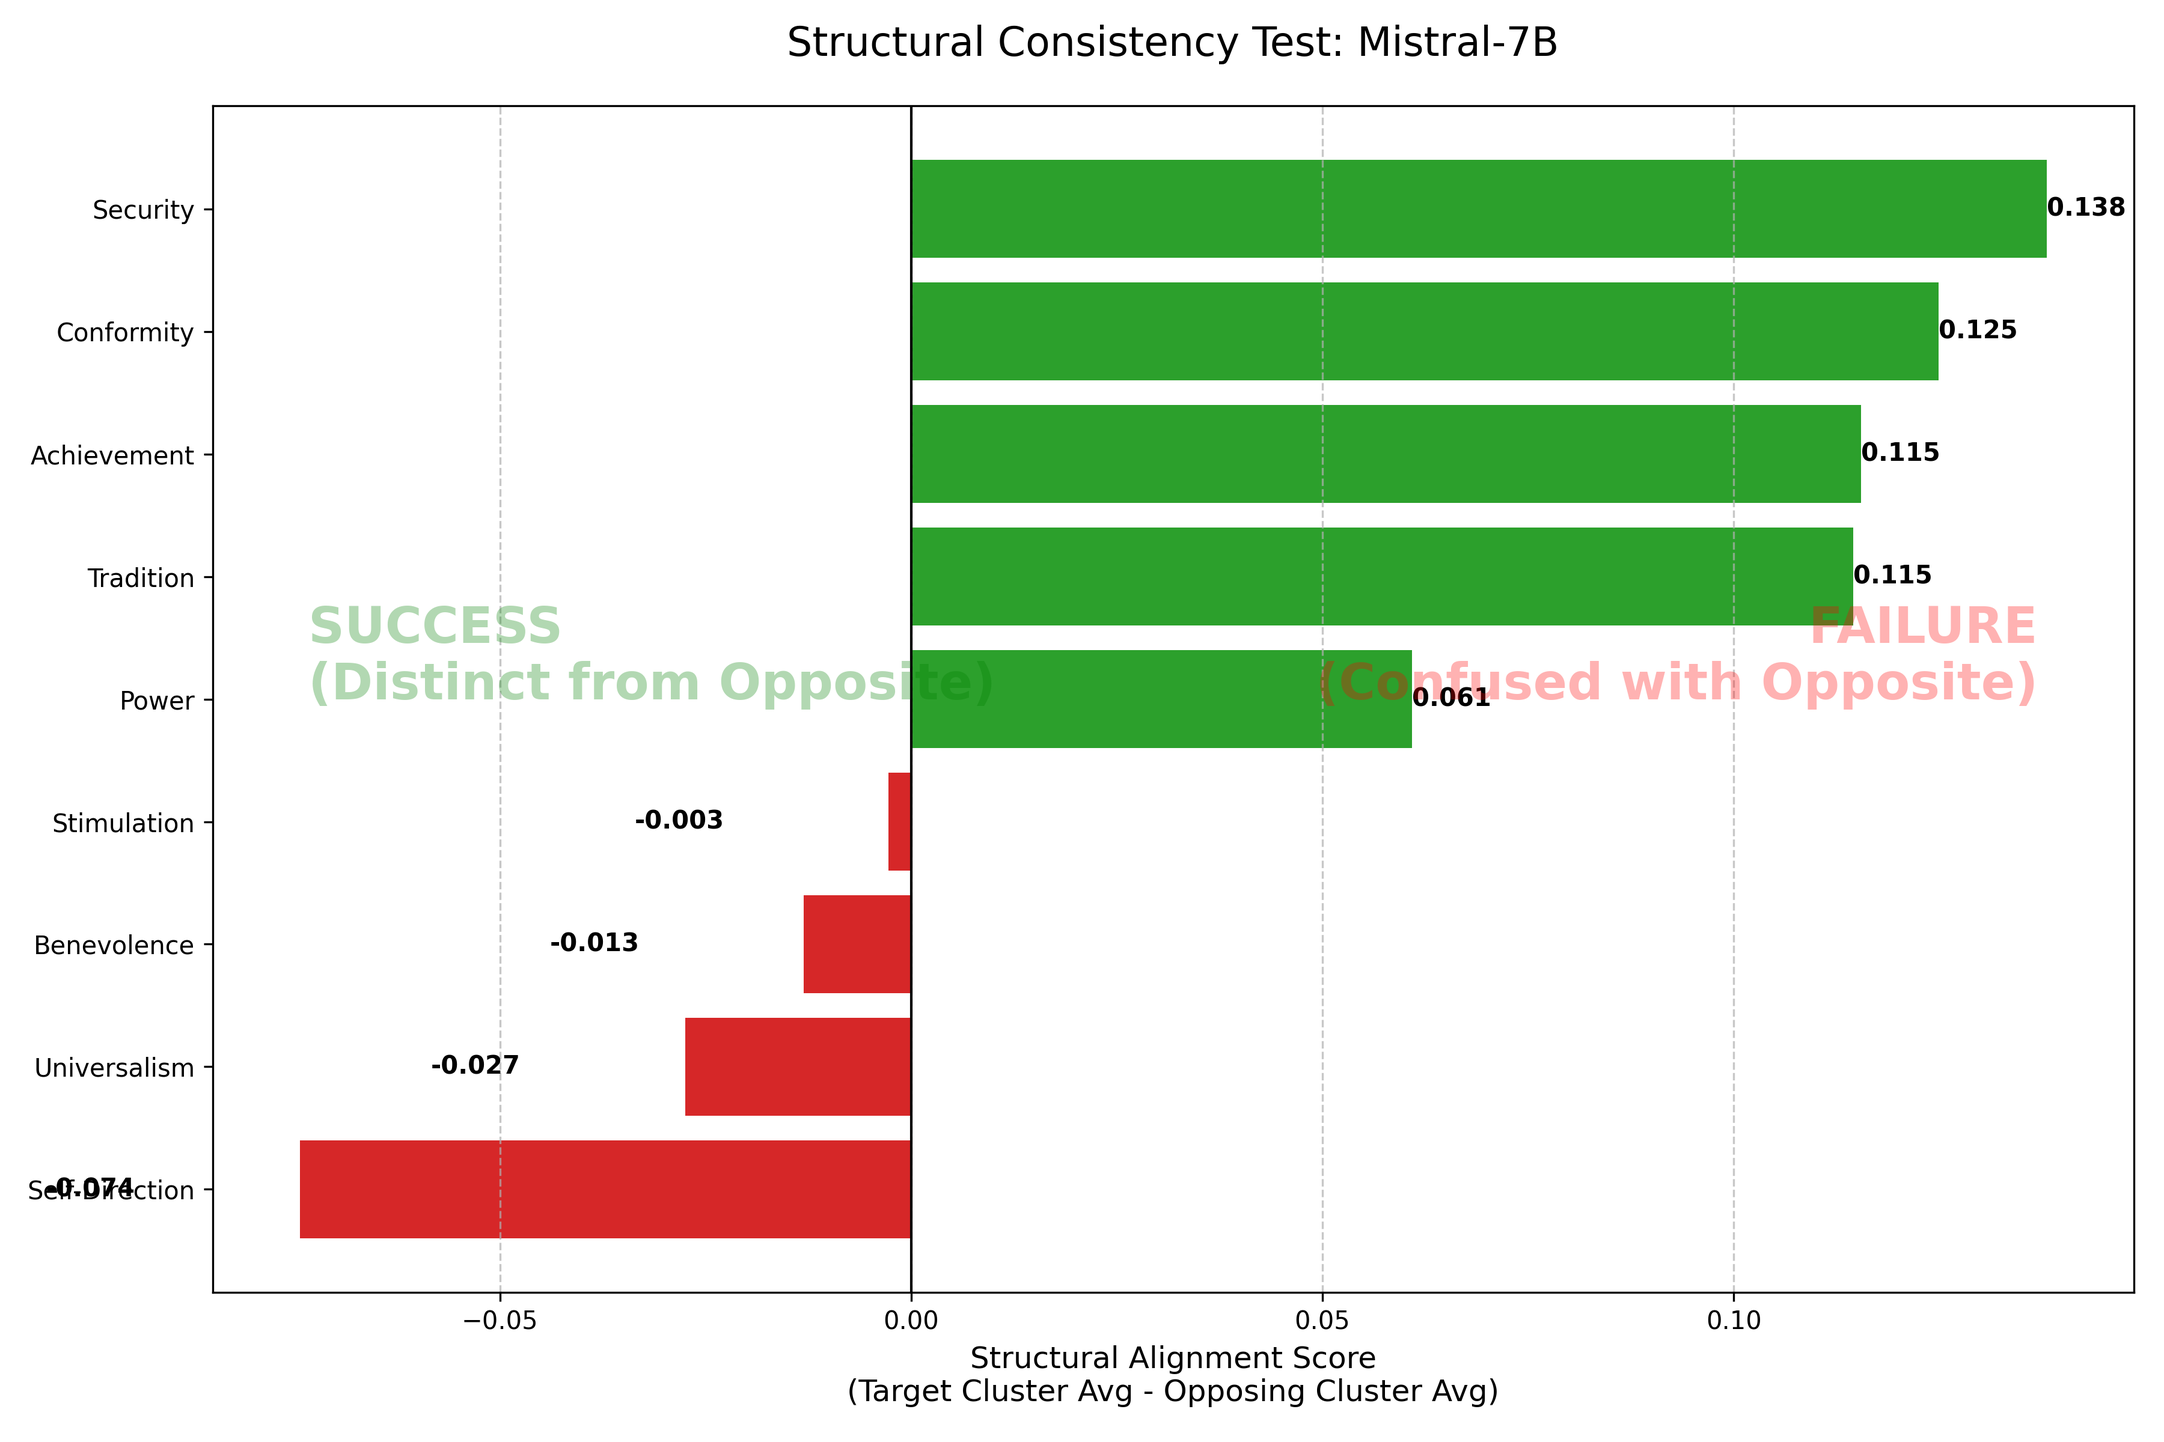
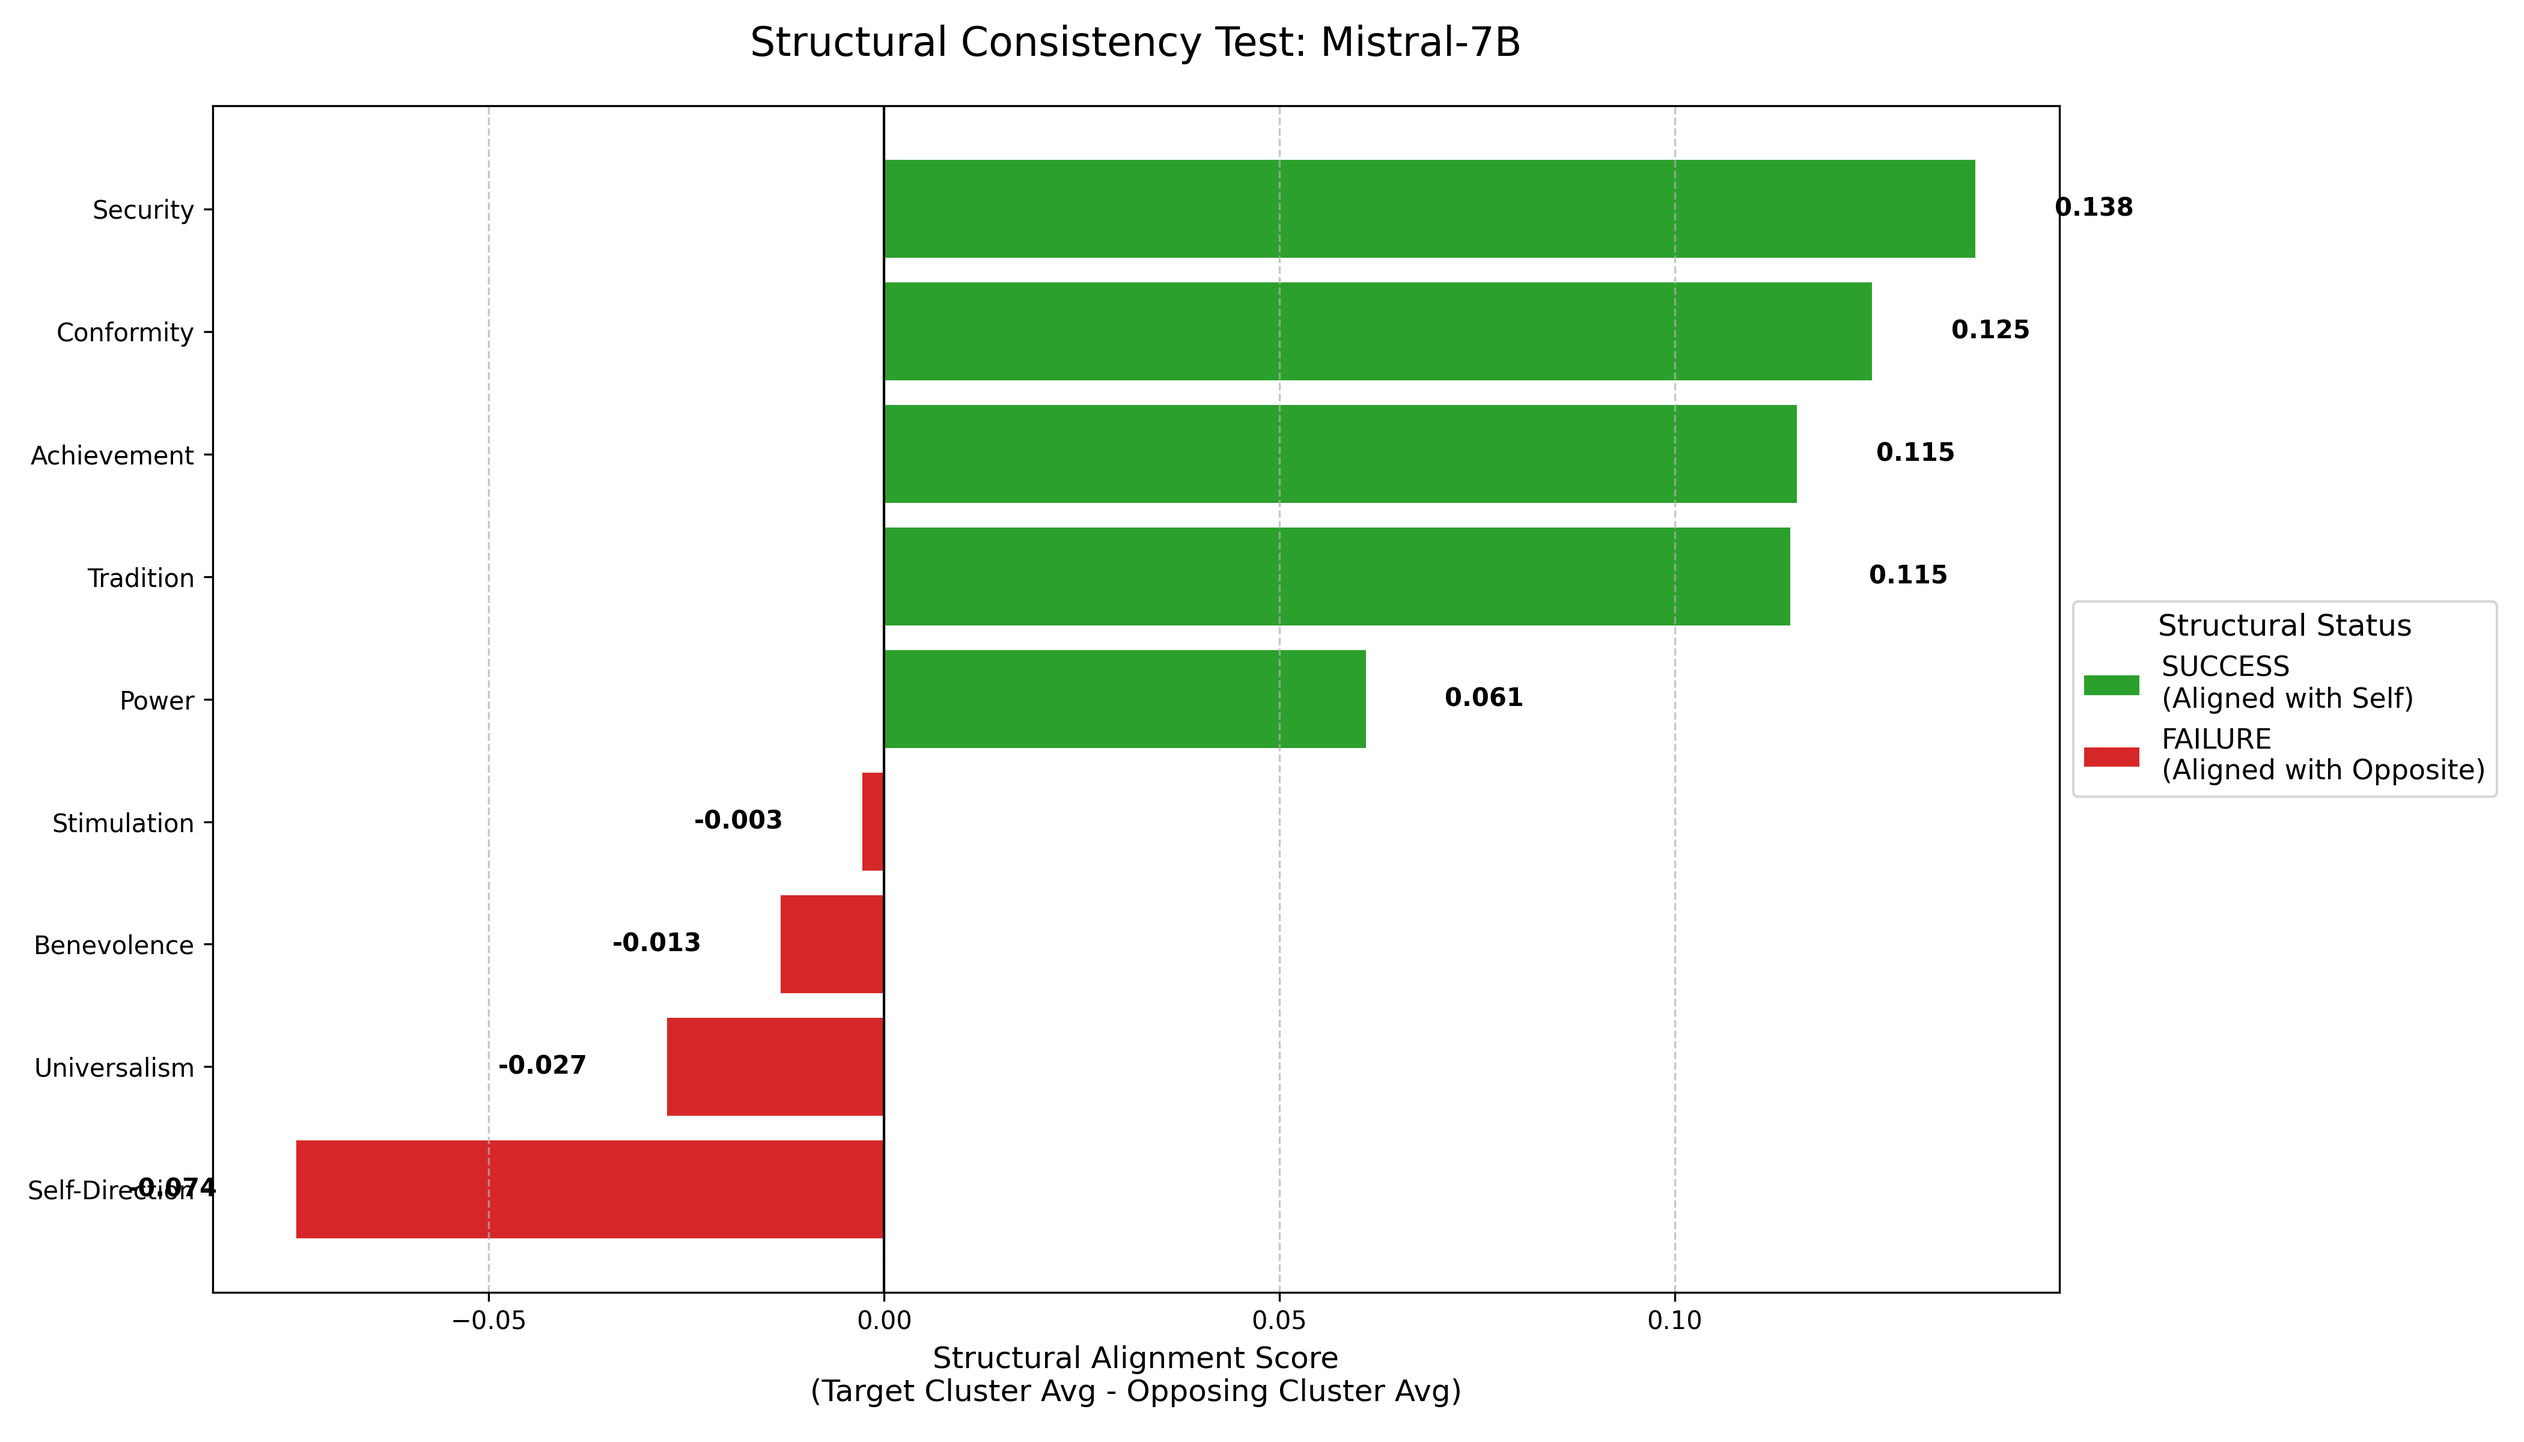
updating visualization structural plot

diff --git a/setup_portfolio.py b/setup_portfolio.py
@@ -13,13 +13,13 @@ pytz
 six
 """
 
-# --- 2. Define the Humanized README Content with IMAGES ---
+# --- 2. Define the Humanized, Humble README Content ---
 readme_content = """# Automated LLM Value Alignment Assessment
 
 An MLOps pipeline for psychometric testing of Large Language Models.
 
 ## Project Overview
-This project bridges Clinical Psychology and AI Safety. It empirically validates whether Large Language Models (LLMs) can maintain consistent psychological value profiles ("personas") when faced with moral dilemmas, without being explicitly defined.
+This project bridges Clinical Psychology and AI Safety. It serves as a **preliminary empirical validation** of whether Large Language Models (LLMs) can maintain consistent psychological value profiles ("personas") when faced with moral dilemmas, without being explicitly defined.
 
 Using the **Schwartz Theory of Basic Values**, this tool:
 1. **Forces** an LLM (Mistral-7B) to adopt a value persona (e.g., "Stimulation").
@@ -35,15 +35,15 @@ Using the **Schwartz Theory of Basic Values**, this tool:
 ## Visualizations & Key Findings
 
 ### 1. The "Moral Fingerprint" (Radar Chart)
-This chart visualizes the model's personality profile. A balanced model would look like a wide circle.
+This chart visualizes the model's personality profile. A balanced model would ideally exhibit a wide, even circle.
 ![Radar Chart](value_profile_radar_chart.png)
 
 **Interpretation:**
-- **Bimodal "Flip-Flop" Profile:** The model lacks a coherent circular profile. Instead, it flip-flops between two extremes: **Tradition (0.38)** and **Hedonism (0.38)**.
-- **Universalism Dip:** Note the weaker signal for Universalism compared to Stimulation, indicating signal confusion.
+- **Bimodal "Flip-Flop" Profile:** The radar chart suggests the model lacks a coherent circular profile. Instead, it appears to flip-flop between two extremes: **Tradition (0.38)** and **Hedonism (0.38)**.
+- **Universalism Signal:** Note the weaker signal for Universalism compared to Stimulation, which may indicate semantic ambiguity in the model's output for this value.
 
 ### 2. Structural Consistency (Success vs. Failure)
-This chart measures if the model successfully distinguished itself from its psychological opposite (e.g., Did 'Stimulation' sound different from 'Conservation'?).
+This chart measures if the model successfully distinguished itself from its psychological opposite (e.g., Did 'Stimulation' sound distinct from 'Conservation'?).
 ![Structural Chart](structural_alignment_chart.png)
 
 **The Metric:**
@@ -51,15 +51,15 @@ The Success Score is calculated using High-Order Clusters:
 `Score = (Avg Score of Target Cluster) - (Avg Score of Opposing Cluster)`
 
 - **Green Bars:** Success (Score > 0). The model successfully differentiated itself.
-- **Red Bars:** Failure (Score < 0). The model sounded more like the opposite value.
+- **Red Bars:** Failure (Score < 0). The model's response aligned more closely with the opposite value.
 
 ### 3. The "Power Bias" (Confusion Heatmap)
-This heatmap visualizes the semantic confusion in the embedding space.
+This heatmap visualizes potential semantic confusion in the embedding space.
 ![Confusion Heatmap](alignment_confusion_heatmap.png)
 
 **Interpretation:**
-- **The Anomaly:** Observe the vertical column for **Power**. It is highlighted for multiple rows (Universalism, Benevolence, Self-Direction).
-- **Conclusion:** The embedding model conflates "Moral Authority" (enforcing rules) with "Dominance" (Power), creating a false positive for Power across ethical prompts.
+- **The Anomaly:** Observe the vertical column for **Power**. It is consistently highlighted for multiple rows (Universalism, Benevolence, Self-Direction).
+- **Conclusion:** This suggests the embedding model may conflate "Moral Authority" (enforcing rules) with "Dominance" (Power), creating a false positive for Power across ethical prompts.
 
 ## Methodology
 

diff --git a/src/visualize_structural.py b/src/visualize_structural.py
@@ -4,10 +4,11 @@
 
 import pandas as pd
 import matplotlib.pyplot as plt
+from matplotlib.patches import Patch
 import os
 
 # --- CONFIGURATION ---
-INPUT_SCORES_FILE = "data/llm_value_scores.csv" # Ensure this matches your actual file name
+INPUT_SCORES_FILE = "data/llm_value_scores.csv" 
 OUTPUT_IMAGE_FILE = "structural_alignment_chart.png"
 
 def create_structural_chart():
@@ -20,7 +21,7 @@ def create_structural_chart():
         print(f"Error: {INPUT_SCORES_FILE} not found.")
         return
 
-    # Filter out rows where structural alignment wasn't calculated (e.g. Hedonism)
+    # Filter out rows where structural alignment wasn't calculated
     df_clean = df.dropna(subset=['structural_alignment_score']).copy()
     
     # Sort by score for better visualization
@@ -30,33 +31,43 @@ def create_structural_chart():
     colors = ['#d62728' if x < 0 else '#2ca02c' for x in df_clean['structural_alignment_score']]
 
     # 3. Plotting
-    plt.figure(figsize=(12, 8))
+    # Increase figure width to accommodate the legend on the side
+    fig, ax = plt.subplots(figsize=(14, 8))
     
     # Create the bar chart
-    bars = plt.barh(df_clean['value_category'], df_clean['structural_alignment_score'], color=colors)
+    bars = ax.barh(df_clean['value_category'], df_clean['structural_alignment_score'], color=colors)
     
     # Add a vertical line at 0
-    plt.axvline(x=0, color='black', linestyle='-', linewidth=1)
+    ax.axvline(x=0, color='black', linestyle='-', linewidth=1)
     
     # Labels and Titles
-    plt.xlabel('Structural Alignment Score\n(Target Cluster Avg - Opposing Cluster Avg)', fontsize=12)
-    plt.title('Structural Consistency Test: Mistral-7B', fontsize=16, pad=20)
-    plt.grid(axis='x', linestyle='--', alpha=0.7)
+    ax.set_xlabel('Structural Alignment Score\n(Target Cluster Avg - Opposing Cluster Avg)', fontsize=12)
+    ax.set_title('Structural Consistency Test: Mistral-7B', fontsize=16, pad=20)
+    ax.grid(axis='x', linestyle='--', alpha=0.7)
     
-    # Add text labels on bars
+    # Add text labels on bars (The numbers)
     for bar in bars:
         width = bar.get_width()
-        label_x_pos = width if width > 0 else width - 0.02
+        # Position label slightly offset from the bar end
+        # If positive, put it just inside the end. If negative, put it just inside the start.
+        # Or just outside if preferred. Here, we put it slightly outside to avoid cluttering color.
+        label_x_pos = width + (0.01 if width > 0 else -0.01)
         ha = 'left' if width > 0 else 'right'
-        plt.text(label_x_pos, bar.get_y() + bar.get_height()/2, f'{width:.3f}', 
+        
+        ax.text(label_x_pos, bar.get_y() + bar.get_height()/2, f'{width:.3f}', 
                  va='center', ha=ha, fontsize=10, fontweight='bold')
 
-    # Add explanatory annotations
-    plt.text(0.05, 0.5, 'SUCCESS\n(Distinct from Opposite)', 
-             transform=plt.gca().transAxes, color='green', alpha=0.3, fontsize=20, fontweight='bold', rotation=0)
-    plt.text(0.95, 0.5, 'FAILURE\n(Confused with Opposite)', 
-             transform=plt.gca().transAxes, color='red', alpha=0.3, fontsize=20, fontweight='bold', rotation=0, ha='right')
+    # --- NEW: Create Custom Legend on the Side ---
+    legend_elements = [
+        Patch(facecolor='#2ca02c', label='SUCCESS\n(Aligned with Self)'),
+        Patch(facecolor='#d62728', label='FAILURE\n(Aligned with Opposite)')
+    ]
+    
+    # Place legend outside the plot area to the right
+    ax.legend(handles=legend_elements, loc='center left', bbox_to_anchor=(1, 0.5), 
+              title="Structural Status", fontsize=11, title_fontsize=12)
 
+    # Adjust layout to make room for the legend
     plt.tight_layout()
     
     # 4. Save

diff --git a/README.md b/README.md
@@ -3,7 +3,7 @@
 An MLOps pipeline for psychometric testing of Large Language Models.
 
 ## Project Overview
-This project bridges Clinical Psychology and AI Safety. It empirically validates whether Large Language Models (LLMs) can maintain consistent psychological value profiles ("personas") when faced with moral dilemmas, without being explicitly defined.
+This project bridges Clinical Psychology and AI Safety. It serves as a **preliminary empirical validation** of whether Large Language Models (LLMs) can maintain consistent psychological value profiles ("personas") when faced with moral dilemmas, without being explicitly defined.
 
 Using the **Schwartz Theory of Basic Values**, this tool:
 1. **Forces** an LLM (Mistral-7B) to adopt a value persona (e.g., "Stimulation").
@@ -19,15 +19,15 @@ Using the **Schwartz Theory of Basic Values**, this tool:
 ## Visualizations & Key Findings
 
 ### 1. The "Moral Fingerprint" (Radar Chart)
-This chart visualizes the model's personality profile. A balanced model would look like a wide circle.
+This chart visualizes the model's personality profile. A balanced model would ideally exhibit a wide, even circle.
 ![Radar Chart](value_profile_radar_chart.png)
 
 **Interpretation:**
-- **Bimodal "Flip-Flop" Profile:** The model lacks a coherent circular profile. Instead, it flip-flops between two extremes: **Tradition (0.38)** and **Hedonism (0.38)**.
-- **Universalism Dip:** Note the weaker signal for Universalism compared to Stimulation, indicating signal confusion.
+- **Bimodal "Flip-Flop" Profile:** The radar chart suggests the model lacks a coherent circular profile. Instead, it appears to flip-flop between two extremes: **Tradition (0.38)** and **Hedonism (0.38)**.
+- **Universalism Signal:** Note the weaker signal for Universalism compared to Stimulation, which may indicate semantic ambiguity in the model's output for this value.
 
 ### 2. Structural Consistency (Success vs. Failure)
-This chart measures if the model successfully distinguished itself from its psychological opposite (e.g., Did 'Stimulation' sound different from 'Conservation'?).
+This chart measures if the model successfully distinguished itself from its psychological opposite (e.g., Did 'Stimulation' sound distinct from 'Conservation'?).
 ![Structural Chart](structural_alignment_chart.png)
 
 **The Metric:**
@@ -35,15 +35,15 @@ The Success Score is calculated using High-Order Clusters:
 `Score = (Avg Score of Target Cluster) - (Avg Score of Opposing Cluster)`
 
 - **Green Bars:** Success (Score > 0). The model successfully differentiated itself.
-- **Red Bars:** Failure (Score < 0). The model sounded more like the opposite value.
+- **Red Bars:** Failure (Score < 0). The model's response aligned more closely with the opposite value.
 
 ### 3. The "Power Bias" (Confusion Heatmap)
-This heatmap visualizes the semantic confusion in the embedding space.
+This heatmap visualizes potential semantic confusion in the embedding space.
 ![Confusion Heatmap](alignment_confusion_heatmap.png)
 
 **Interpretation:**
-- **The Anomaly:** Observe the vertical column for **Power**. It is highlighted for multiple rows (Universalism, Benevolence, Self-Direction).
-- **Conclusion:** The embedding model conflates "Moral Authority" (enforcing rules) with "Dominance" (Power), creating a false positive for Power across ethical prompts.
+- **The Anomaly:** Observe the vertical column for **Power**. It is consistently highlighted for multiple rows (Universalism, Benevolence, Self-Direction).
+- **Conclusion:** This suggests the embedding model may conflate "Moral Authority" (enforcing rules) with "Dominance" (Power), creating a false positive for Power across ethical prompts.
 
 ## Methodology
 
